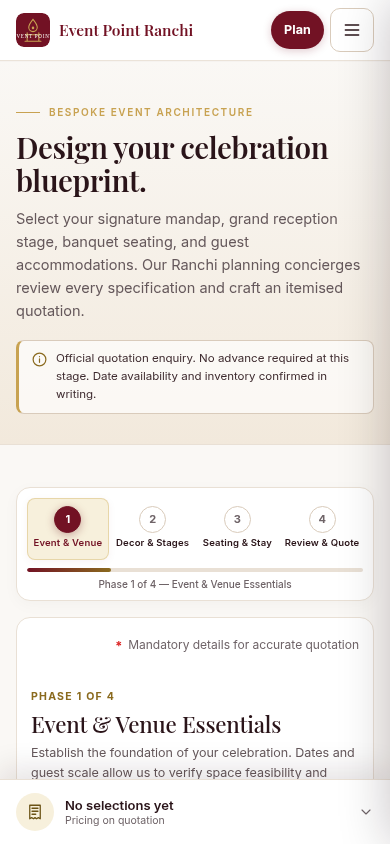
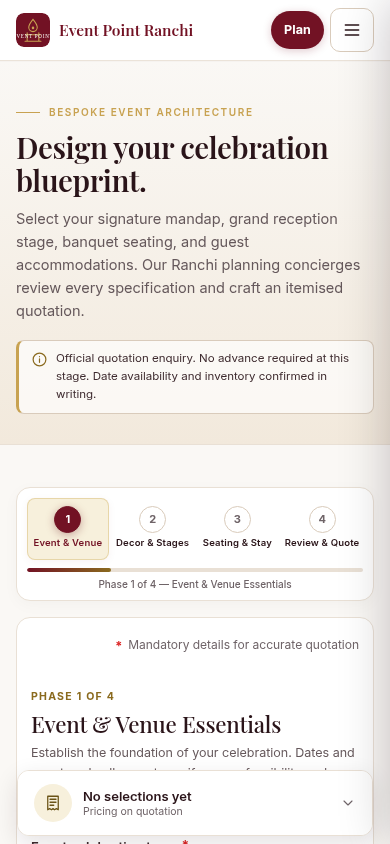
fix(plan): stop the mobile summary covering Continue
Move the compact summary into the form flow above the navigation row and
use sticky positioning, so it settles above Continue/Submit instead of
intercepting the tap. Also let the step-3 equipment rail scroll without
forcing the form wider than the viewport.

Changed region(s): [[0.0308, 0.8934, 0.8615, 1.0], [0.9538, 0.9242, 0.9846, 0.9858], [0.4615, 0.9858, 0.4923, 1.0]]

diff --git a/src/styles/mobile.css b/src/styles/mobile.css
@@ -1174,10 +1174,6 @@
   }
 
   /* ---------- Plan wizard -------------------------------------------- */
-  body.plan-page {
-    padding-bottom: calc(82px + var(--safe-bottom));
-  }
-
   body .plan-hero-note {
     font-size: 11.5px;
     padding: 9px 12px;
@@ -1460,19 +1456,25 @@
     padding: 18px;
   }
 
-  /* Sticky mobile summary bar. The static sidebar card is hidden above and
-     body this mirrors the same generated rows. */
+  /* Sticky mobile summary. It is positioned inside the form *before* the
+     navigation row, so at the end of the form it settles above Continue/
+     Submit instead of covering them. */
   body .plan-mobile-summary {
-    position: fixed;
-    left: 0;
-    right: 0;
-    bottom: 0;
-    z-index: 95;
+    position: sticky;
+    bottom: calc(8px + var(--safe-bottom));
+    z-index: 30;
     display: block;
-    padding-bottom: var(--safe-bottom);
+    margin: 18px -14px 0;
     background: var(--surface);
-    border-top: 1px solid var(--line);
-    box-shadow: 0 -10px 30px rgba(42, 20, 25, 0.12);
+    border: 1px solid var(--line);
+    border-radius: 12px;
+    overflow: hidden;
+    box-shadow: 0 8px 24px rgba(42, 20, 25, 0.12);
+  }
+
+  body .plan-nav,
+  body .plan-submission-box {
+    scroll-margin-bottom: calc(84px + var(--safe-bottom));
   }
 
   body .plan-mobile-toggle {
@@ -2422,10 +2424,18 @@
   body .plate-stepper,
   body .plate-stepper-controls,
   body .plate-stepper-controls .stepper-input,
+  body .plan-layout,
+  body .plan-form,
+  body .plan-step,
+  body .section-block,
   body .plan-stepper-item,
   body .plan-stepper-btn,
   body .stepper-meta {
     min-width: 0;
+  }
+
+  body .plan-form {
+    max-width: 100%;
   }
 
   body .package-row-media,

diff --git a/docs/mobile-redesign-report.md b/docs/mobile-redesign-report.md
@@ -110,7 +110,8 @@ The baseline was built in an isolated worktree from `HEAD`. The baseline worktre
 - Converted tables to cards at ≤767px and 768–900px, so seven-column admin tables never require pinching or horizontal scrolling.
 - Added mobile-only text to destructive icon buttons (`Delete`) and 44px touch targets.
 - Added safe-area support for the fixed dock, summary bar and detail action bar.
-- Fixed the plan sticky summary covering the submit button; content can scroll clear of it.
+- Fixed the plan sticky summary covering the Continue/Submit controls. The summary now lives in the form flow above the navigation row and sticks there, so it settles above the action buttons instead of intercepting taps.
+- Fixed the step-3 equipment tab rail forcing the plan form to 543px at a 390px viewport; the rail now scrolls inside a 358px form.
 - Added `word-break`/`overflow-wrap` to long emails, references, URLs and money values.
 - Hid the bottom dock on focused flows so it never competes with the plan summary or detail CTA.
 
@@ -162,13 +163,15 @@ Automated Chromium/CDP audit over **19 routes × 6 viewports** (320×640, 360×8
 
 ### 8.3 Interaction checks
 
-**21/21 passed:**
+**23/23 passed:**
 
 - Drawer opens, modal semantics, focus to close, scroll lock
 - Escape closes, inert state restored, focus returns to trigger
+- Step 1 summary yields to the Continue button (hit-test and bar clearance)
 - Plan step 1 validates and advances
 - Mobile summary expands and reports quotation status
 - Mandap selection and equipment quantities update the summary
+- Step 3 equipment rail scrolls without widening the form
 - Draft persists and restores step/selections after reload
 - Sticky summary clears the submit button
 - Gallery lightbox opens/closes, locks scroll, restores focus
@@ -176,7 +179,13 @@ Automated Chromium/CDP audit over **19 routes × 6 viewports** (320×640, 360×8
 - Contact inline validation and first-invalid focus
 - Catalogue search stacks on mobile
 
-### 8.4 Authenticated route audit
+### 8.4 Follow-up: `/plan` Continue button
+
+The initial mobile implementation used a full-width fixed summary bar. At the bottom of the form it covered the Continue button, so taps hit the summary instead; the second tap opened the summary sheet and appeared to make the button disappear.
+
+The summary is now in the form flow **before** the navigation row and uses `position: sticky; bottom: 8px`. It remains visible while filling the form, then settles above Continue/Submit instead of over them. The step-3 form width regression found while testing this fix (543px at 390px) was also corrected.
+
+### 8.5 Authenticated route audit
 
 - Customer `/account`, `/profile`, `/my-bookings`: 320, 390, 768, 1440 — no overflow; 0 sub-44px controls at 320/390/768.
 - Admin operational routes (`bookings`, booking detail, `payments`, payment detail, `enquiries`, enquiry detail, scanner, `customers`, customer detail, `inquiries`): 320, 390, 768, 900 — no overflow and 0 sub-44px controls.
@@ -228,6 +237,8 @@ The pre-existing uncommitted changes in `src/components/skeletons/SkeletonGaller
 ### Commit
 
 Implementation commit: **`cdd192e`** (`feat(mobile): redesign public, account and admin interfaces for phones`)
+
+Follow-up fix commit: **`<pending-fix>`** (`fix(plan): stop the mobile summary covering Continue`)
 
 ---
 
